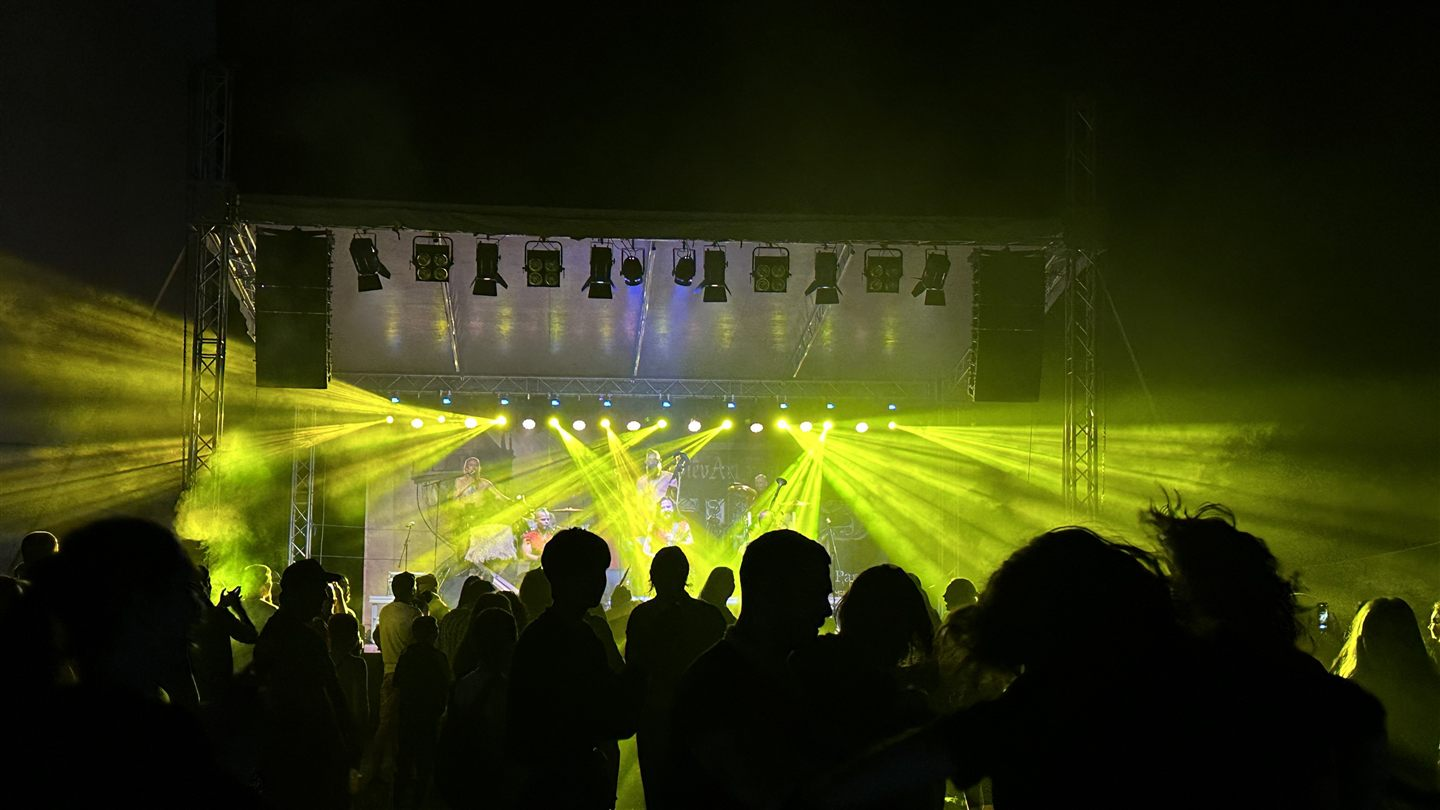
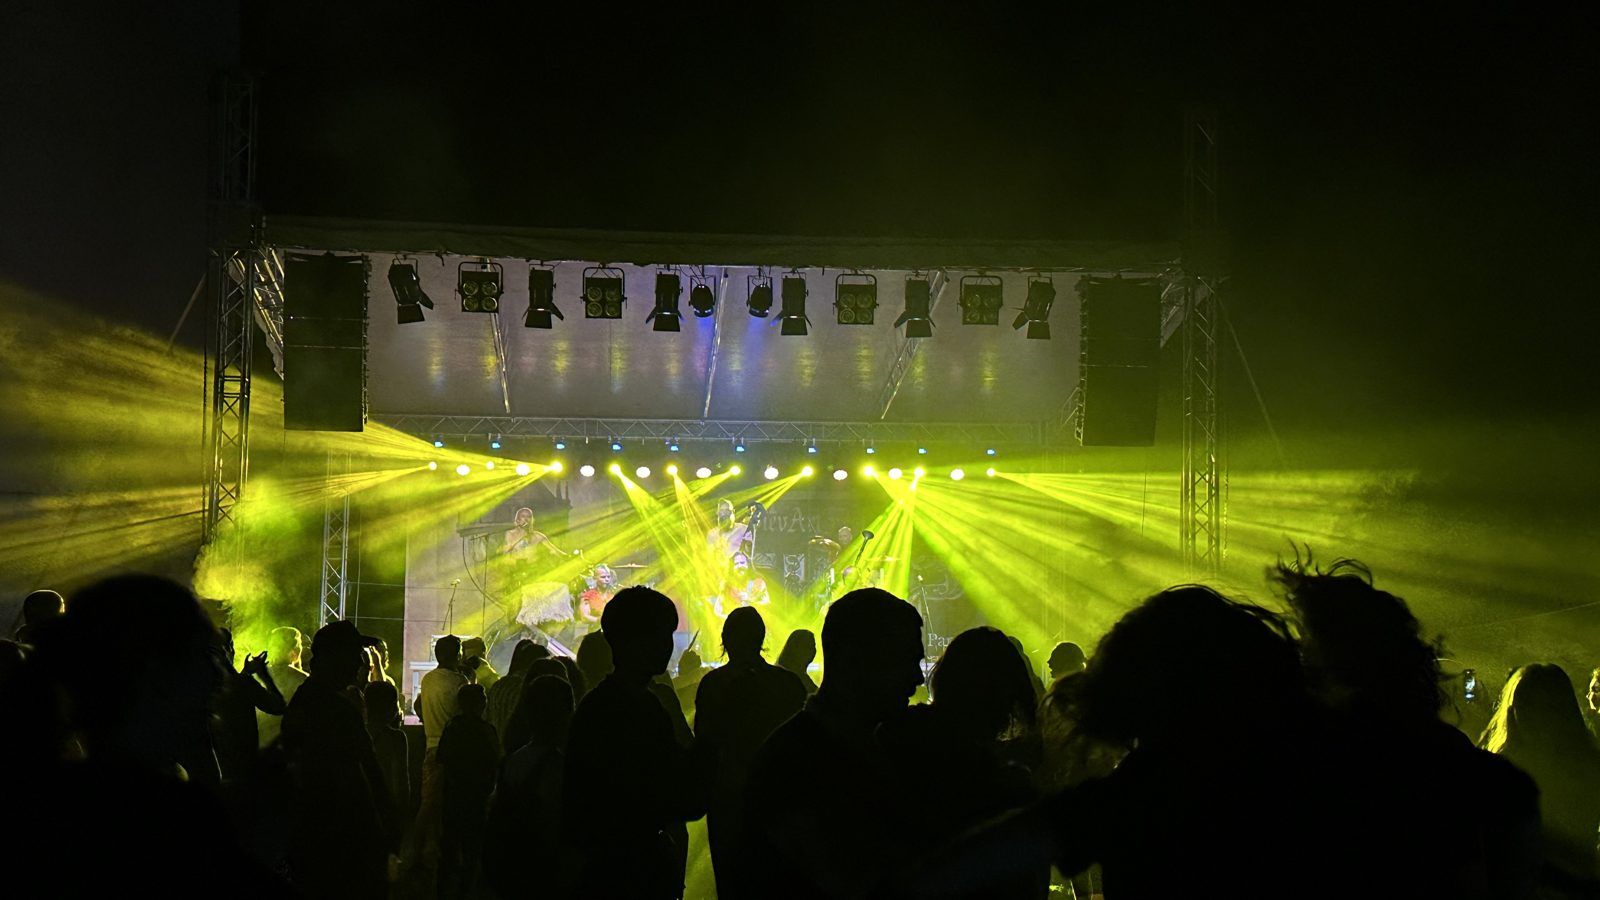
fix: restore homepage images after folder restructure
Regenerate optimized JPEGs from exact relocated originals with Pillow; preserve source files. Mark the missing Satu Mare homepage photograph visibly instead of replacing it.

diff --git a/src/app/site-data.ts b/src/app/site-data.ts
@@ -74,11 +74,6 @@ export const portfolioImages: PortfolioImage[] = [
   { title: 'Lumini concert', category: 'lumini', image: 'assets/poze galerie/web/event-02.jpg', thumbnail: 'assets/poze galerie/web/event-02-thumb.jpg' },
   { title: 'Zilele Ardudului', category: 'eveniment public', image: 'assets/poze galerie/web/event-01.jpg', thumbnail: 'assets/poze galerie/web/event-01-thumb.jpg' },
   { title: 'Gala Loga Dance', category: 'gală', image: 'assets/poze galerie/web/event-05.jpg', thumbnail: 'assets/poze galerie/web/event-05-thumb.jpg' },
-  { title: 'Ziua Orașului Satu Mare', category: 'concert', image: 'assets/poze galerie/web/event-06.jpg', thumbnail: 'assets/poze galerie/web/event-06-thumb.jpg' },
   { title: 'Rock Filarmonica', category: 'live', image: 'assets/poze galerie/web/event-07.jpg', thumbnail: 'assets/poze galerie/web/event-07-thumb.jpg' },
-  { title: 'Producție lumini', category: 'show', image: 'assets/poze galerie/web/event-08.jpg', thumbnail: 'assets/poze galerie/web/event-08-thumb.jpg' },
-  { title: 'Bal Interact', category: 'indoor', image: 'assets/poze galerie/web/event-09.jpg', thumbnail: 'assets/poze galerie/web/event-09-thumb.jpg' },
-  { title: 'Sunet outdoor', category: 'audio', image: 'assets/poze galerie/web/event-10.jpg', thumbnail: 'assets/poze galerie/web/event-10-thumb.jpg' },
   { title: 'Lumini indoor', category: 'lumini', image: 'assets/poze galerie/web/event-11.jpg', thumbnail: 'assets/poze galerie/web/event-11-thumb.jpg' },
-  { title: 'Ziua Orașului 2022', category: 'eveniment public', image: 'assets/poze galerie/web/event-12.jpg', thumbnail: 'assets/poze galerie/web/event-12-thumb.jpg' }
 ];

diff --git a/src/app/home/home.component.html b/src/app/home/home.component.html
@@ -5,13 +5,14 @@
         *ngFor="let image of heroImages; let index = index"
         [src]="image"
         [class.active]="index === activeHero"
-        alt="">
+        alt="" width="1600" height="1067">
     </div>
     <div class="hero-media">
       <img
         *ngFor="let image of heroImages; let index = index"
         [src]="image"
         [class.active]="index === activeHero"
+        width="1600" height="1067" decoding="async"
         [attr.fetchpriority]="index === 0 ? 'high' : 'low'"
         [alt]="'Scenă Sigma Sound cu lumini și public' | t">
       <div class="hero-dots">
@@ -86,6 +87,7 @@
     </div>
     <div class="portfolio-copy">
       <h2>{{ 'Portofoliu' | t }}</h2>
+      <p>{{ '[TODO: fotografia originală Ziua Orașului Satu Mare din galeria principală]' | t }}</p>
       <a class="portfolio-link" routerLink="/portofoliu">{{ 'Arată galeria' | t }}</a>
     </div>
     <a class="portfolio-link portfolio-link-mobile" routerLink="/portofoliu">{{ 'Arată galeria' | t }}</a>

diff --git a/src/app/app.component.html b/src/app/app.component.html
@@ -1,7 +1,7 @@
 <a class="skip-link" href="#main-content">{{ 'Sari la conținut' | t }}</a>
 <header class="site-header">
   <a class="brand" routerLink="/" aria-label="Sigma Sound">
-    <img src="assets/poze galerie/logo.svg" alt="" width="132" height="40">
+    <img src="assets/poze galerie/poze icon/logo.svg" alt="" width="132" height="40">
   </a>
   <nav [attr.aria-label]="'Navigare principală' | t">
     <a routerLink="/" fragment="servicii">{{ 'Servicii' | t }}</a>

diff --git a/src/app/translations.ts b/src/app/translations.ts
@@ -1,4 +1,5 @@
 export const english: Record<string, string> = {
+  '[TODO: fotografia originală Ziua Orașului Satu Mare din galeria principală]': '[TODO: original Satu Mare city festival photo from the homepage gallery]',
   'Servicii': 'Services',
   'Portofoliu': 'Portfolio',
   'Contact': 'Contact',
